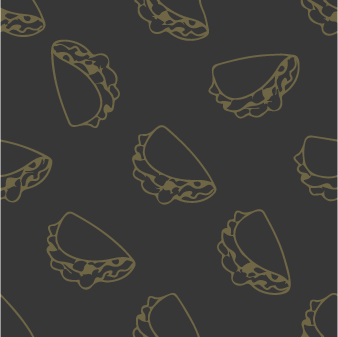
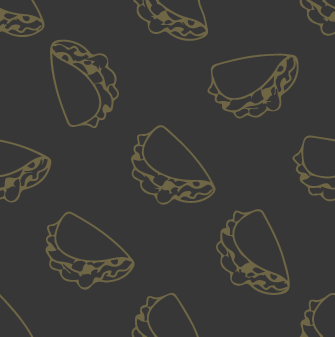
subo cart y correcciones de home

diff --git a/sprint2/views/carrito.html b/sprint2/views/carrito.html
@@ -1,0 +1,117 @@
+<!DOCTYPE html>
+<html>
+<head>
+    <meta charset="UTF-8">
+    <meta http-equiv="X-UA-Compatible" content="IE=edge">
+    <meta name="viewport" content="width=device-width, initial-scale=1.0">
+    <title>Shopping Cart</title>
+    <link rel="stylesheet" href="/css/styles.css">
+    <link rel="stylesheet" href="https://stackpath.bootstrapcdn.com/font-awesome/4.7.0/css/font-awesome.min.css">
+    <script src="https://kit.fontawesome.com/ef88cf4afb.js" crossorigin="anonymous"></script>
+    <link rel="preconnect" href="https://fonts.gstatic.com" crossorigin>
+    <link href="https://fonts.googleapis.com/css2?family=Open+Sans+Condensed:wght@300;700&family=Roboto+Condensed:wght@400;700&display=swap" rel="stylesheet">
+
+
+</head>
+<body class="carrito">
+    <header>
+        
+        <div class="flex-header">
+            <img class="logo" src='/images/Menu/logomin.png' alt='Logo' />
+              <div id="input">
+                <input type="text" id="busqueda" name="busqueda" size="25" placeholder="Buscar...">
+            </div>
+            <div class="logo-desktop"><img src="/images/Menu/logo/Logo.png" alt=""></div>
+            <div class="user-cart">
+              <i class="fas fa-user"></i>
+            <i class="fas fa-shopping-cart"></i>
+            </div>
+            
+            <input type="checkbox" id='menu'>
+            <label for='menu'>☰</label>
+            <nav class="container-menu">
+              <ul class="menu">
+                <li class="texto"><a href="">Menu</a> </li>
+                <li class="texto"><a href="">Sucursales</a> </li>
+            </ul>
+            <ul class="menu-hiden"></ul>
+            <ul class="menu">
+              <li class="texto"><a href= "">Nosotros</a> </li>
+              <li class="texto"><a href="">Contacto</a> </li>
+            </ul>
+            </nav>
+
+        </div>
+    </header>
+
+    <main>
+        <div class="container">
+            <h1>Carrito</h1>
+            <div class="cart">
+                <div class="products">
+                    <div class="product">
+                        <img src="/images/Menu/Tacos/1-beerbatteredfishtaco.png">
+                        <div class="product-info">
+                            <h3 class="product-name">Taco de pollo</h3>
+                            <h4 class="product-price">$ 300</h4>
+                            <p class="product-quantity">Cantidad: <input value="1" name="">
+                            <p class="product-remove">
+                                <i class="fa fa-trash" aria-hidden="true"></i>
+                                <span class="remove">Borrar</span>
+                            </p>
+                        </div>
+                    </div>
+                    <div class="product">
+                        <img src="/images/Menu/Nachos/1-Hero_Queso-Loaded-Nachos.png">
+                        <div class="product-info">
+                            <h3 class="product-name">Super Nachos Con Queso</h3>
+                            <h4 class="product-price">$ 700</h4>
+                            <p class="product-quantity">Cantidad: <input value="1" name="">
+                            <p class="product-remove">
+                                <i class="fa fa-trash" aria-hidden="true"></i>
+                                <span class="remove">Borrar</span>
+                            </p>
+                        </div>
+                    </div>
+                    <div class="product">
+                        <img src="/images/Menu/Salsas/Hero_bowl-of-guac.png">
+                        <div class="product-info">
+                            <h3 class="product-name">Guacamole</h3>
+                            <h4 class="product-price">$ 100</h4>
+                            <p class="product-quantity">Cantidad: <input value="1" name="">
+                            <p class="product-remove">
+                                <i class="fa fa-trash" aria-hidden="true"></i>
+                                <span class="remove">Borrar</span>
+                            </p>
+                        </div>
+                    </div>
+                    <div class="product">
+                        <img src="/images/Menu/Crispy Chicken/1-Crispy-Chicken-Taco.png">
+                        <div class="product-info">
+                            <h3 class="product-name">Burrito</h3>
+                            <h4 class="product-price">$ 300</h4>
+                            <p class="product-quantity">Cantidad: <input value="1" name="">
+                            <p class="product-remove">
+                                <i class="fa fa-trash" aria-hidden="true"></i>
+                                <span class="remove">Borrar</span>
+                            </p>
+                        </div>
+                    </div>
+                </div>
+                <div class="cart-total">
+                    <p>
+                        <span>Precio Total</span>
+                        <span>$ 1400</span>
+                    </p>
+                    <p>
+                        <span>Cantidad de productos</span>
+                        <span>4</span>
+                    </p>
+                    <a href="#">Pagar</a>
+                </div>
+            </div>
+        </div>
+    </main>
+    
+</body>
+</html>

diff --git a/sprint2/public/css/cart.css b/sprint2/public/css/cart.css
@@ -1,0 +1,149 @@
+body{
+	font-family: 'Open Sans Condensed', sans-serif;
+}
+
+.container{
+	max-width: 1200px;
+	margin: 0 auto;
+}
+
+.container > h1{
+	padding: 20px 0;
+}
+
+.cart{
+	display: flex;
+}
+
+.products{
+	flex: 0.75;
+}
+
+.product{
+	display: flex;
+	width: 100%;
+	height: 200px;
+	overflow: hidden;
+	border: 1px solid black;
+	margin-bottom: 20px;
+	background-color: rgba(188, 188, 126, 0.5);
+}
+
+.product:hover{
+	border: none;
+	box-shadow: 2px 2px 4px rgba(0,0,0,0.2);
+	transform: scale(1.01);
+}
+
+.product > img{
+	width: 300px;
+	height: 200px;
+	object-fit: cover;
+}
+
+.product > img:hover{
+	transform: scale(1.04);
+}
+
+.product-info{
+	padding: 20px;
+	width: 100%;
+	position: relative;
+}
+
+.product-name, .product-price, .product-offer{
+	margin-bottom: 20px;
+}
+
+.product-remove{
+	position: absolute;
+	bottom: 20px;
+	right: 20px;
+	padding: 10px 25px;
+	background-color: green;
+	color: white;
+	cursor: pointer;
+	border-radius: 5px;
+}
+
+.product-remove:hover{
+	background-color: white;
+	color: green;
+	font-weight: 600;
+	border: 1px solid green;
+}
+
+.product-quantity > input{
+	width: 40px;
+	padding: 5px;
+	text-align: center;
+}
+
+.fa{
+	margin-right: 5px;
+}
+
+.cart-total{
+	flex: 0.25;
+	margin-left: 20px;
+	padding: 20px;
+	height: 240px;
+	border: 1px solid black;
+	border-radius: 5px;
+	background-color: rgba(188, 188, 126, 0.5);
+}
+
+.cart-total p{
+	display: flex;
+	justify-content: space-between;
+	margin-bottom: 30px;
+	font-size: 20px;
+}
+
+.cart-total a{
+	display: block;
+	text-align: center;
+	height: 40px;
+	line-height: 40px;
+	background-color: tomato;
+	color: white;
+	text-decoration: none;
+}
+
+.cart-total a:hover{
+	background-color: red;
+}
+
+@media screen and (max-width: 700px){
+	.remove{
+		display: none;
+	}
+
+	.product{
+		height: 150px;
+	}
+
+	.product > img{
+		height: 150px;
+		width: 200px;
+	}
+	.product-name, .product-price, .product-offer{
+		margin-bottom: 10px;
+	}
+}
+
+@media screen and (max-width: 900px){
+	.cart{
+		flex-direction: column;
+	}
+	.cart-total{
+		margin-left: 0;
+		margin-bottom: 20px;
+	}
+}
+
+@media screen and (max-width: 1220px){
+	.container{
+		max-width: 95%;
+	}
+}

diff --git a/sprint2/public/css/home.css b/sprint2/public/css/home.css
@@ -3,7 +3,7 @@
 /* Body */
 
 body{
-    background-image: url(/images/Menu/background-taco.jpg);
+    background-image: url(/images/Menu/mobile-gris.png);
     background-repeat: repeat;
 
 }
@@ -128,6 +128,7 @@ body{
   width: 75%;
   font-family: 'Open Sans Condensed', sans-serif;
   font-size: 20px;
+  text-align: center;
 }
 
 .home .nosotros-flex{
@@ -154,6 +155,7 @@ body{
   padding: 40px 10px;
   font-family: 'Open Sans Condensed';
   font-weight: 700;
+  text-align: center;
  }
 
  .home  .unite{
@@ -220,6 +222,7 @@ body{
 
 .home .fondo-sucursal{
   background-color:#373737;
+  width: 100%;
 }
 .home .sucursal-bottom{
   color: #f1d367;
@@ -294,7 +297,7 @@ body{
 
 .home section h1{
   font-size: 30px;
-  margin: 5px;
+  margin: 20px;
 }
 
 .home section h2 {

diff --git a/sprint2/app.js b/sprint2/app.js
@@ -14,10 +14,14 @@ app.get('/', (req, res) => res.sendFile(path.join(__dirname, 'views', 'home.html
 /* app get detalle-producto */
 app.get('/detalle-producto', (req, res) => res.sendFile(path.join(__dirname, 'views', 'detalle-producto.html')))
 
-/* app get detalle-producto */
+/* app get carrito */
+app.get('/carrito', (req, res) => res.sendFile(path.join(__dirname, 'views', 'carrito.html')))
+
+
+/* app get login */
 app.get('/login', (req, res) => res.sendFile(path.join(__dirname, 'views', 'login.html')))
 
-/* app get detalle-producto */
+/* app get register */
 app.get('/register', (req, res) => res.sendFile(path.join(__dirname, 'views', 'register.html')))
 
 

diff --git a/sprint2/public/css/styles.css b/sprint2/public/css/styles.css
@@ -1,3 +1,4 @@
 @import url(/css/general.css);
 @import url(/css/header.css);
 @import url(/css/home.css);
+@import url(/css/cart.css);
